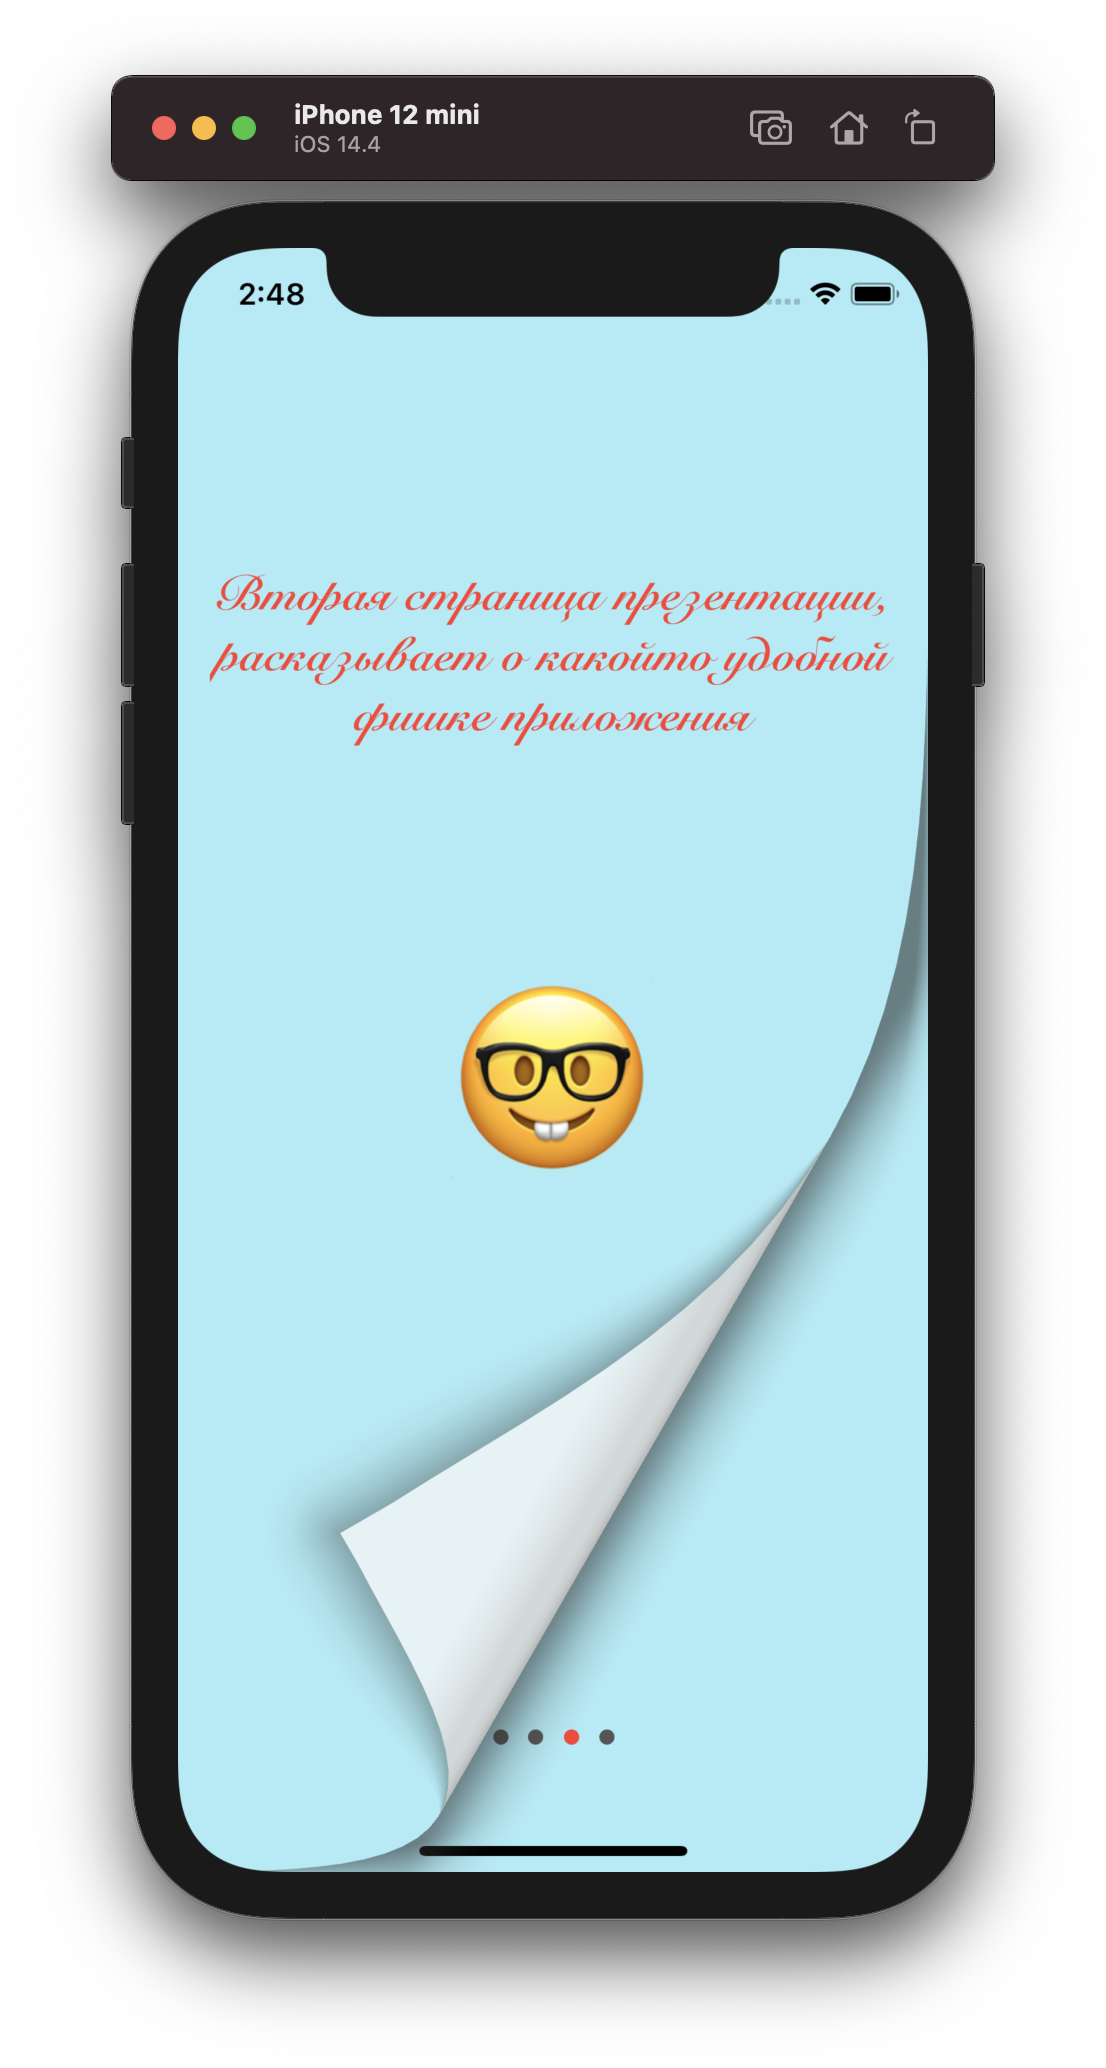
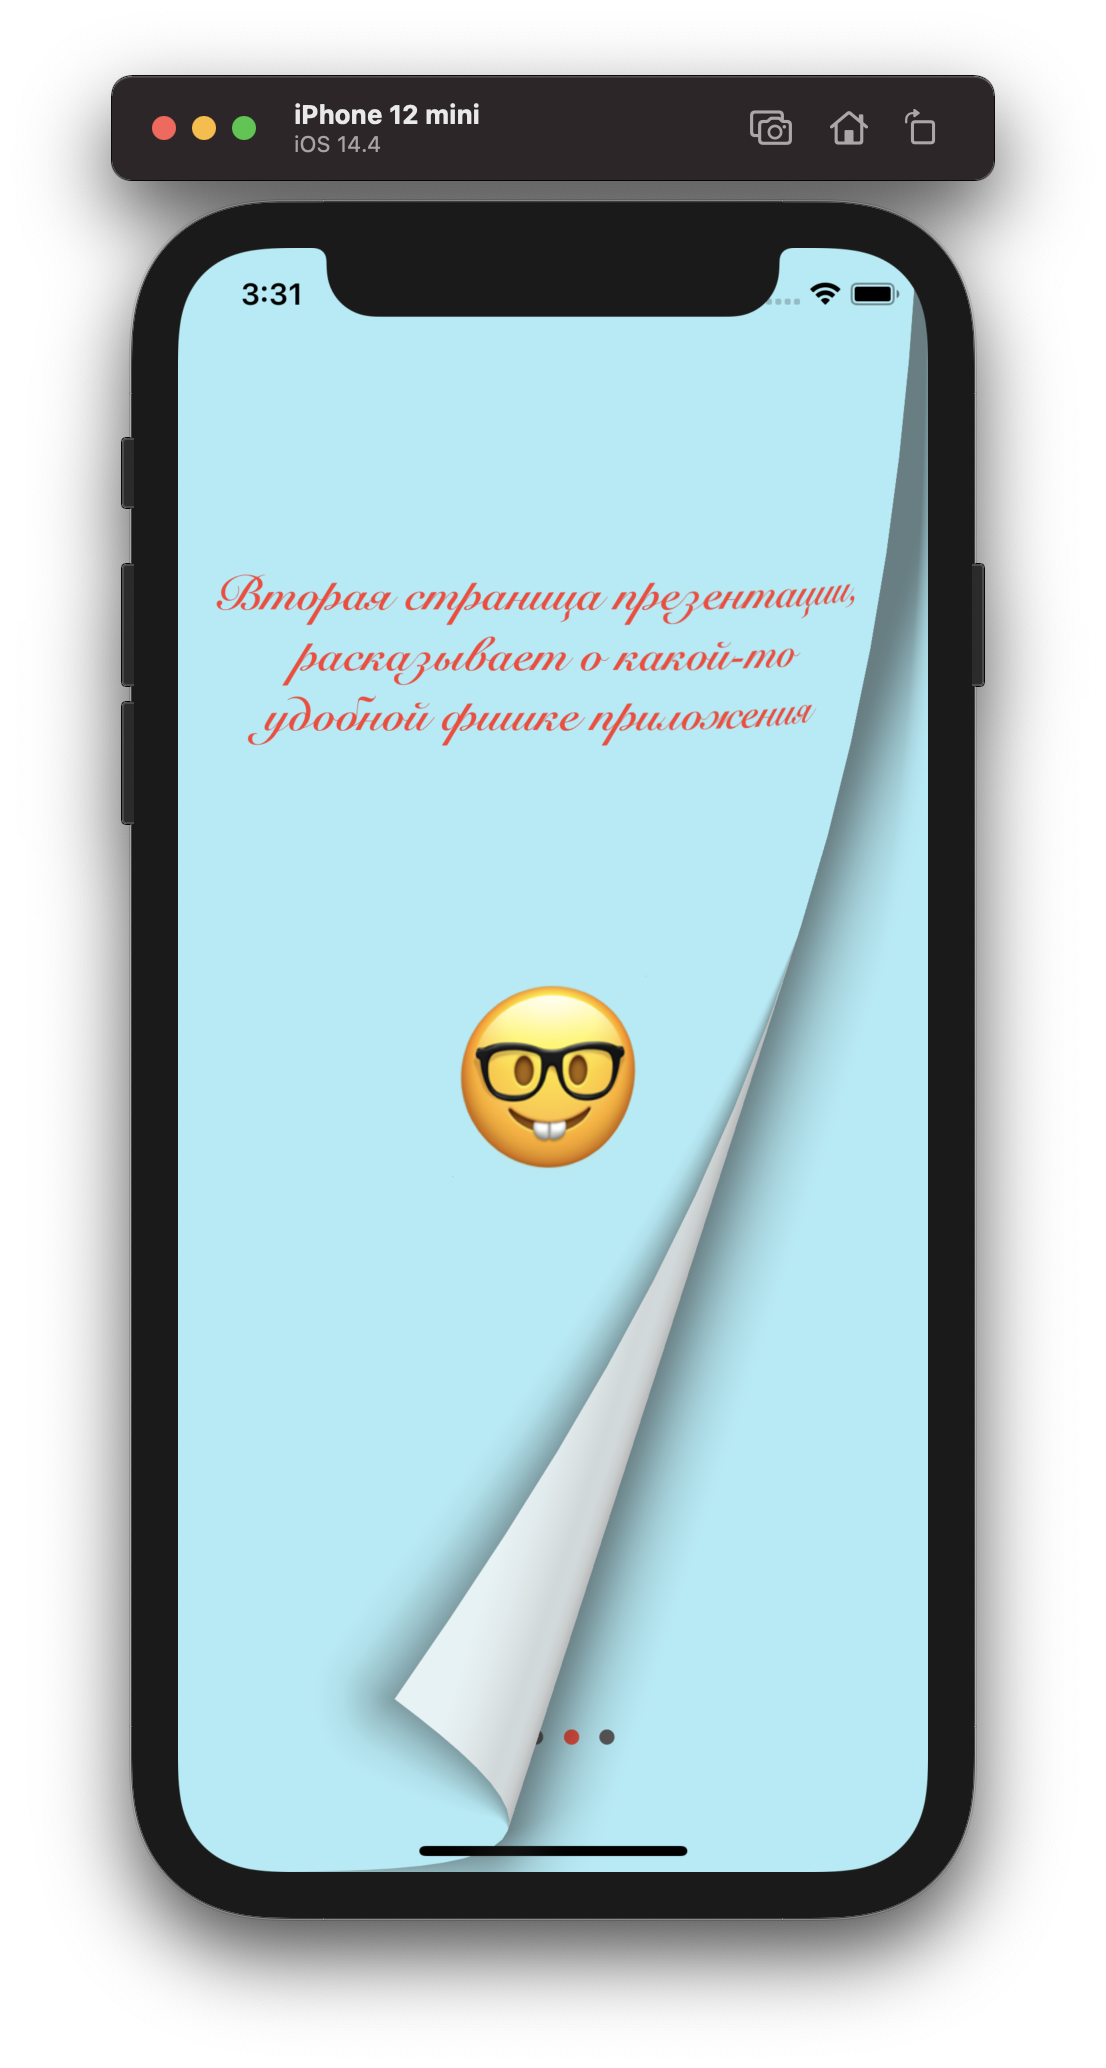
Better screenshot + fix spelling

Changed region(s): [[0.1844, 0.1547, 0.8608, 0.9284], [0.4919, 0.4952, 0.5841, 0.5571], [0.2152, 0.1238, 0.2767, 0.1547]]

diff --git a/UIPageView/View Controllers/PageViewController.swift b/UIPageView/View Controllers/PageViewController.swift
@@ -12,7 +12,7 @@ class PageViewController: UIPageViewController {
     
     let presentScreenContent = [
         "Первая страница презентации, расказывающая о том, что наше приложение из себя представляет",
-        "Вторая страница презентации, расказывает о какойто удобной фишке приложения",
+        "Вторая страница презентации, расказывает о какой-то удобной фишке приложения",
         "Третья сраница презентации тоже рассказывает о чем то очень интересном",
         "Ну и наконец последняя страница презентации с напутствием в добрый путь =)"
     ]
